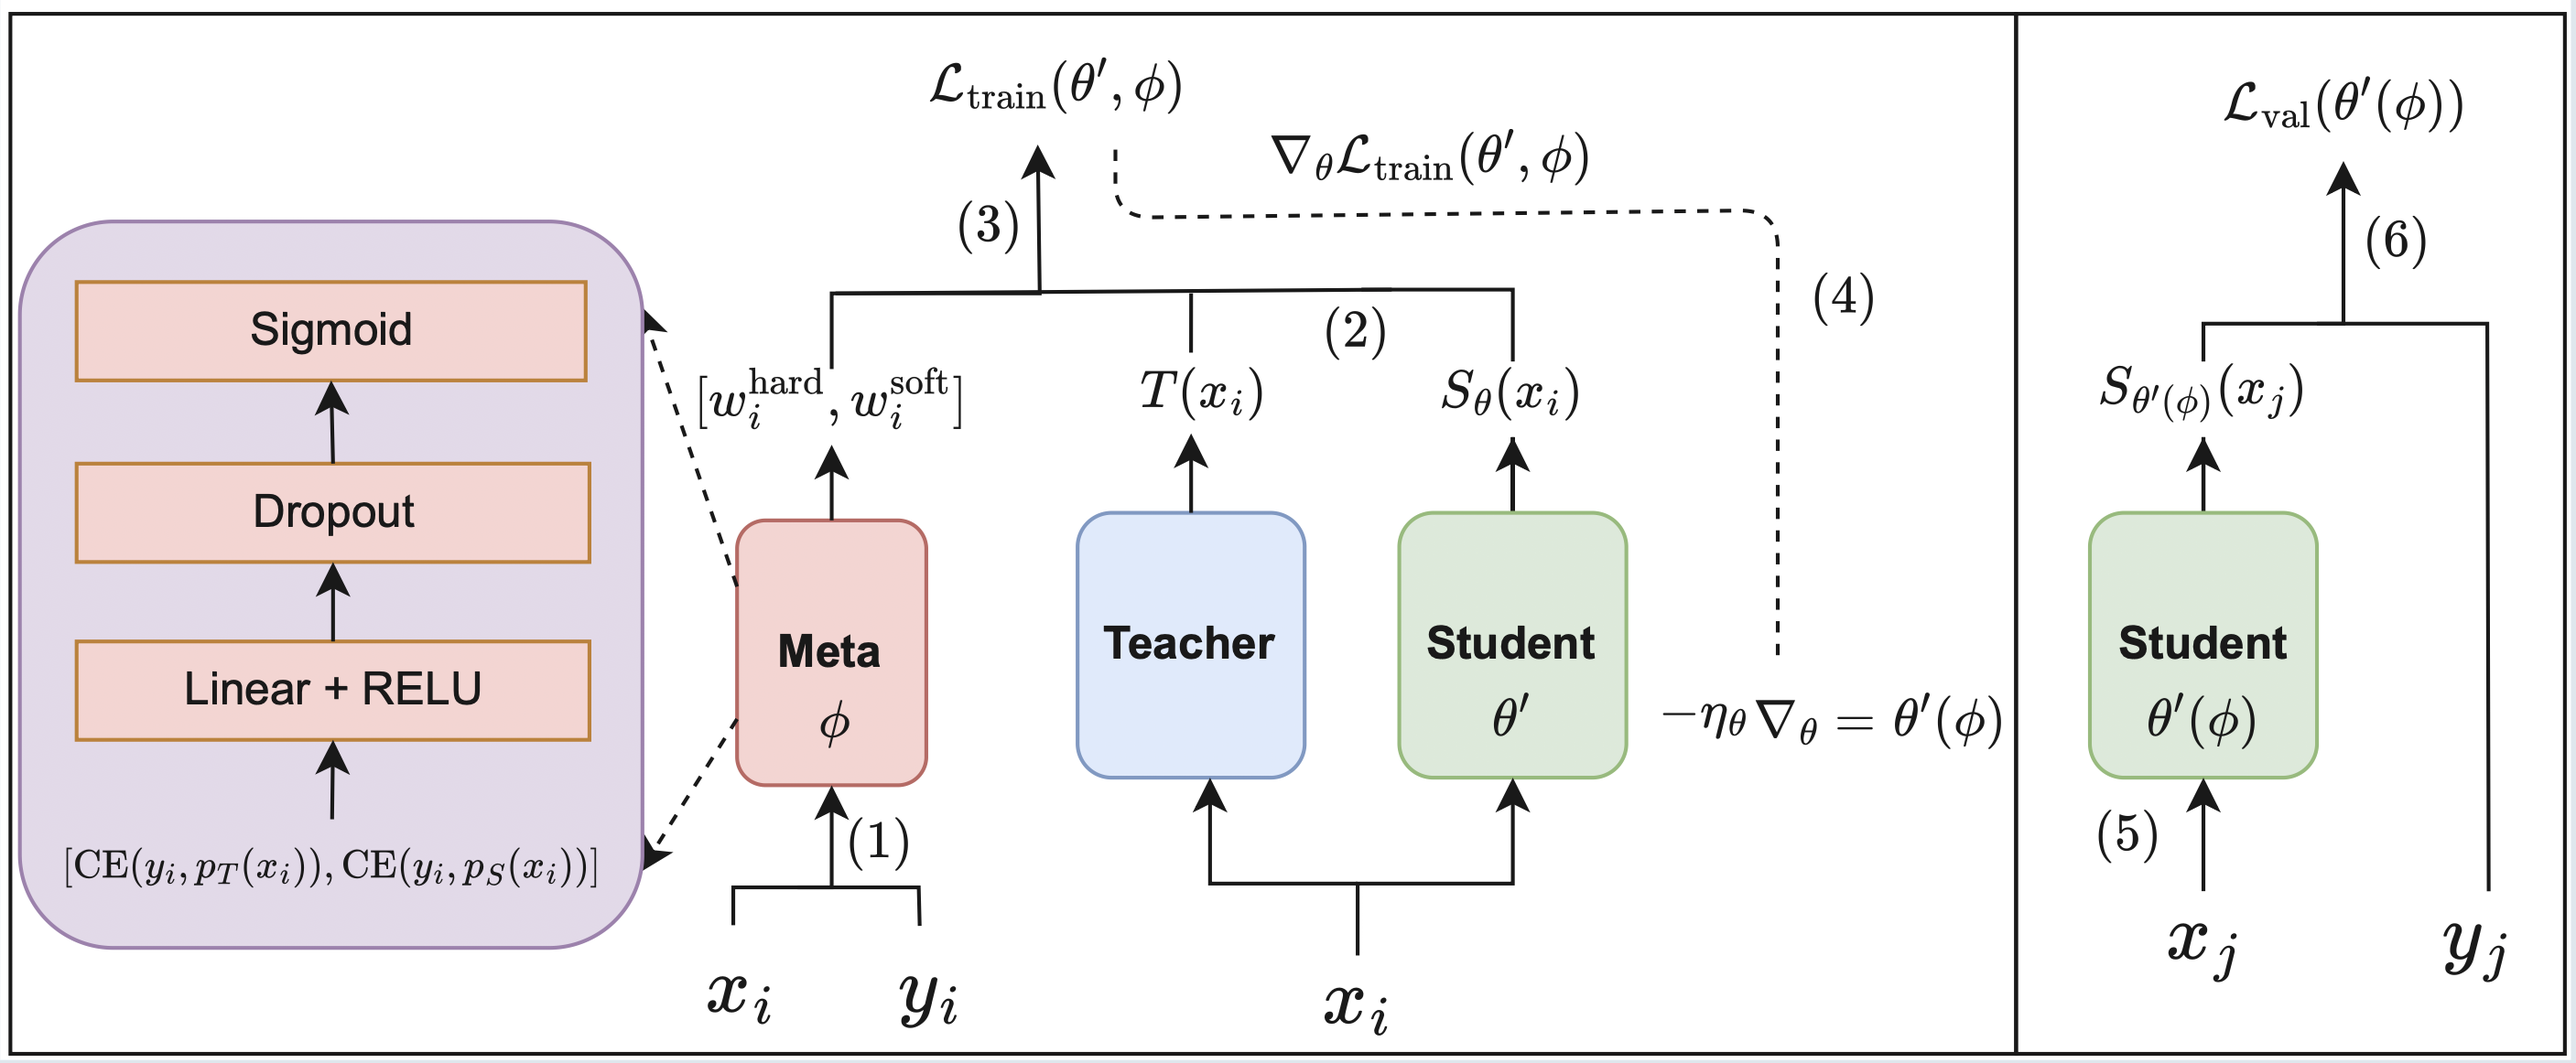
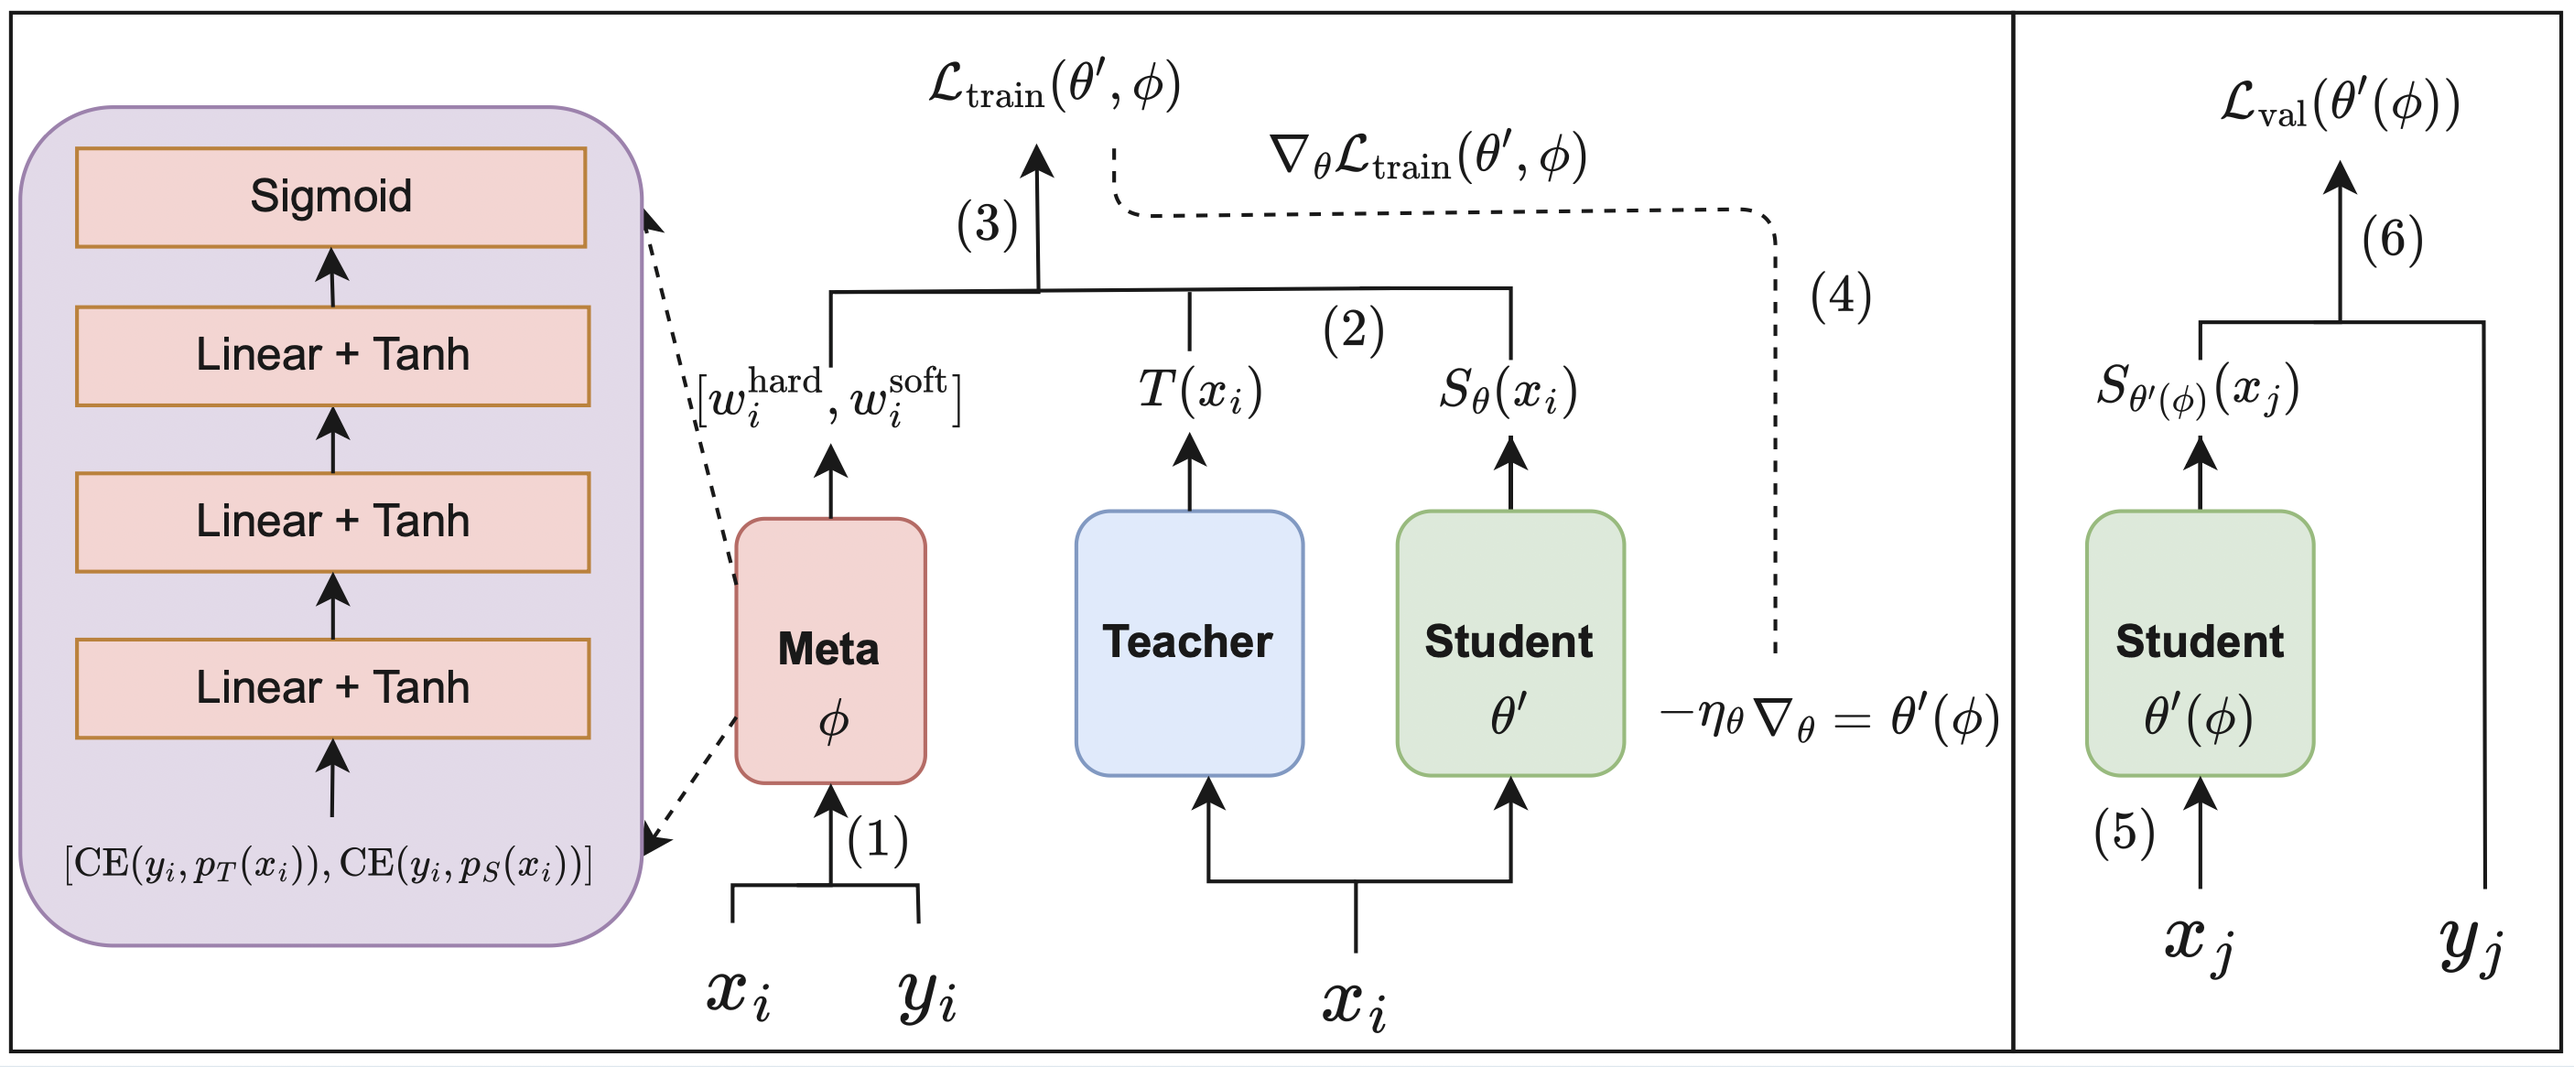
fix syntax readme

diff --git a/README.md b/README.md
@@ -24,8 +24,8 @@ python bileval_balancing_kd.py --dataset cifar100 --teacher_path your_path_here.
 ```
 
 ### 3.2 Baseline
-This repository currently support 5 methods:
-kd', 'ce', 'dive', 'bkd', 'wsl
+This repository currently support 5 baseline methods:
+kd, ce, dive, bkd, wsl
 - `ce` - standard cross entropy loss
 - `kd` - vanilla knowledge distillation
 - `dive` - distill from virtual examples
@@ -41,14 +41,14 @@ python train_student.py --dataset cifar100 --imb_factor 100 --teacher_ckpt_path 
 Below is a description of the key arguments used in the scripts:
 | Argument                 | Description                                                 |
 | ------------------------ | ----------------------------------------------------------- |
-| `--dataset`               | Data to use (e.g. `cifar10`, `cifar100`      |
+| `--dataset`               | Data to use (e.g. `cifar10`, `cifar100`)      |
 | `--imb_factor`       | Imbalance factor for long-tailed datasets (1, 10, 50, 100) |
 | `--teacher_arch` | Architecture of the teacher network (e.g., `resnet32x4`). |
 | `--student_arch` | Architecture of the student network (e.g., `resnet8x4`). |
 | `--teacher_ckpt_path` | Path to the pre-trained teacher model checkpoint. |
 | `--kd_type`              | KD method (`kd`, `ce`, `dive`, `bkd`, `wsl`). Default: `kd`.|
 | `--alpha`                | Balancing weight for the loss function. Default: `0.5`.     |
-| `--power`                | (Flag) Use power normalization (p=0.5) for teacher probs.   |
+| `--temperature`          | Temperature scaling parameter for Softmax. Default: `4.0`.   |
 
 Specialize arguments for Bilevel balancing KD
 | Argument                 | Description                                                 |
